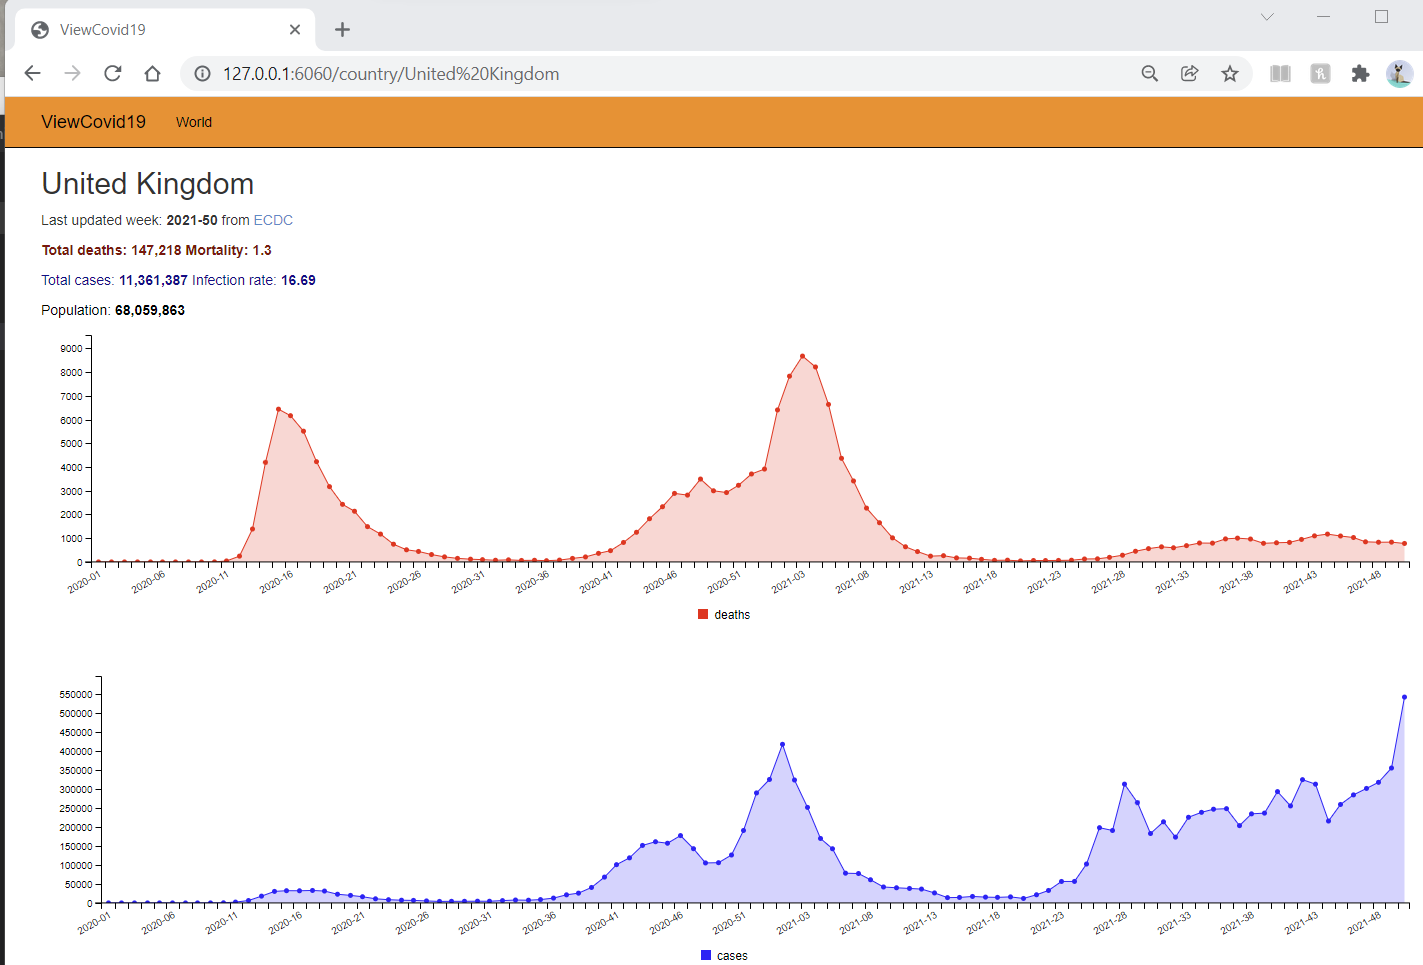
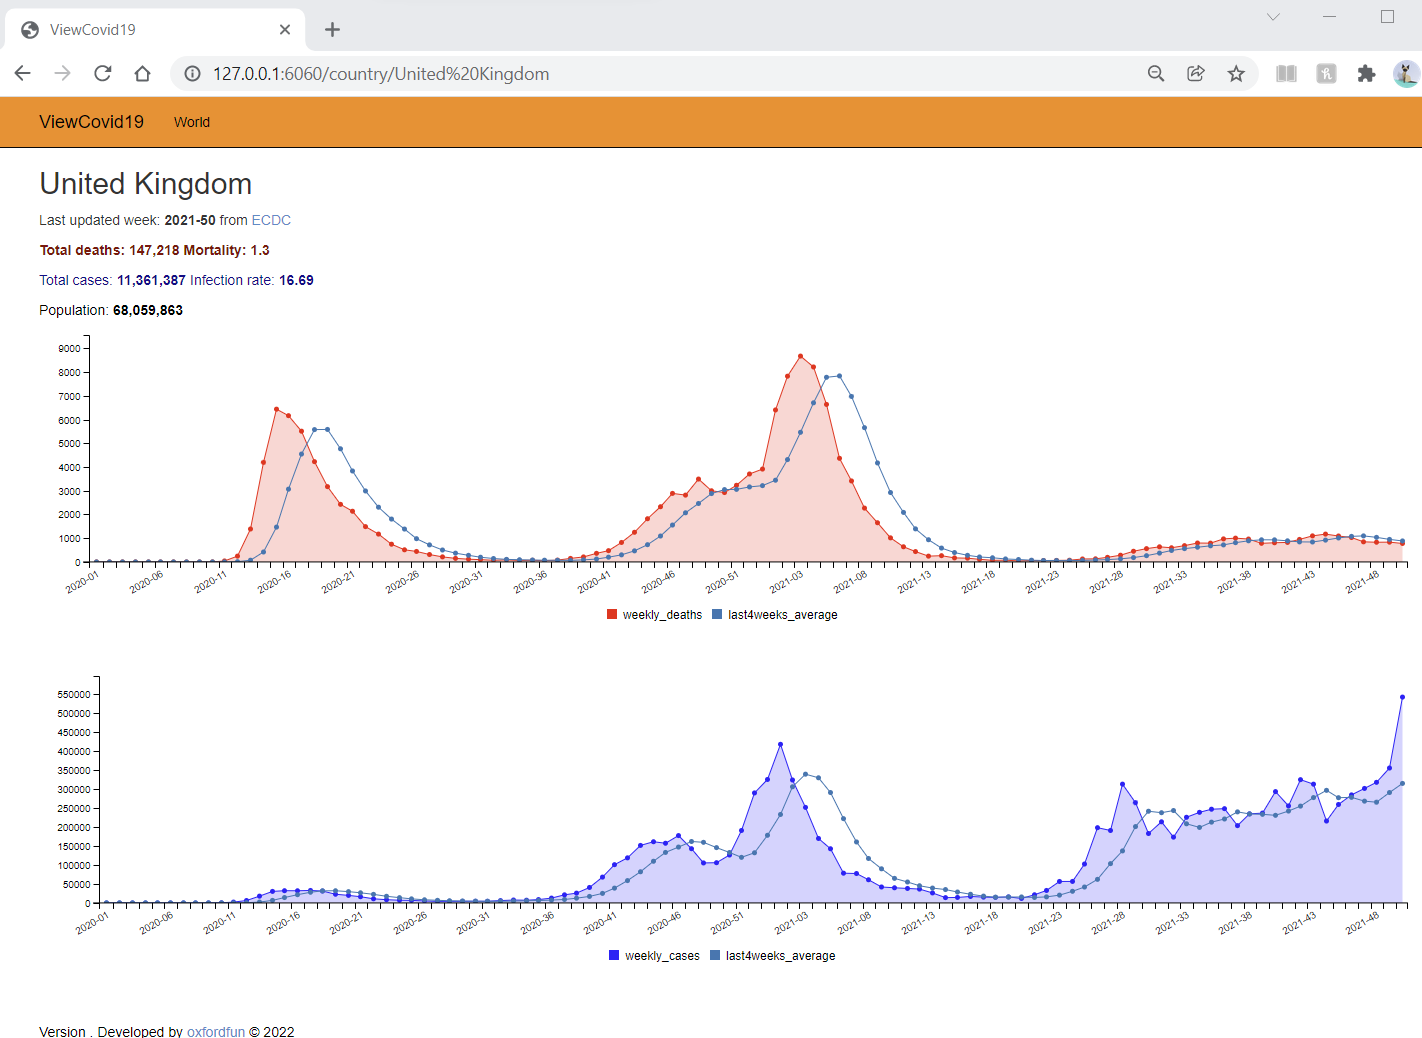
Update screenshots

Changed region(s): [[0.0, 0.0, 1.0, 1.0]]

diff --git a/README.md b/README.md
@@ -1,18 +1,18 @@
 # Covid19
 Show covid19 data, for example:  https://covid19.oxfordfun.com/countries
 
-# Set up
+## Set up
 
-## Clone the code
+### Clone the code
 ```
 git clone https://github.com/oxfordfun/covid19 
 ```
-## Get data from ECDC
+### Get data from ECDC
 ```
 wget https://opendata.ecdc.europa.eu/covid19/nationalcasedeath/json -O data.json
 ```
 
-## Install dependencies in a virtual environment
+### Install dependencies in a virtual environment
 Ubuntu
 ```
 virtualenv -p python3 env
@@ -26,8 +26,8 @@ python -m venv myenv
 pip3 install -r .\requirements.txt 
 ```
 
-# Run it
-## Command
+## Run it
+### Command
 Show World data
 
 ```
@@ -40,7 +40,7 @@ Show Continent data (Europe, Asia, America, Africa, Oceania)
 python3 main.py data.json Europe > data/europe.json
 ```
 
-## Web
+### Web
 ```
 python3 webmain.py
 ```
@@ -50,4 +50,4 @@ Data shown at http://127.0.0.1:6060/countries
 
 Data shown at http://127.0.0.1:6060/country/United%20Kingdom
 
-![UK Data](data/Countries.png?raw=true "UK")
+![UK Data](data/UK.png?raw=true "UK")
